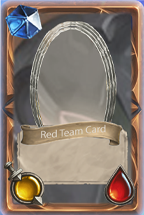
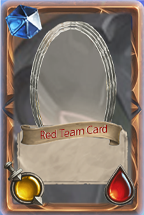
Final css update for demo

Changed region(s): [[0.2778, 0.586, 0.75, 0.6419]]

diff --git a/src/js/components/pages/add-card-type/addcardtype.css b/src/js/components/pages/add-card-type/addcardtype.css
@@ -7,7 +7,8 @@ html, body {
 }*/
 
 .add-card-type-header {
-	border-bottom: 3px solid #ccc;
+    border-bottom: 3px solid #ccc;
+    box-shadow: 0 10px 15px -9px rgba(170,170,170,1);
 	width: 100%;
 	height: 100px;
 }
@@ -62,7 +63,7 @@ html, body {
 	font-size: 50px;
 	color: #eee;
 	text-align: center;
-	text-shadow: 3px 0 black, 3px 0 black, 3px 0 black, 3px 0 black;
+	text-shadow: 3px 0 black;
 	line-height: 50px;
 	position: absolute;
 	width: 50px;
@@ -73,8 +74,8 @@ html, body {
 	margin: 0 auto;
 	position: relative;
 	max-width: 300px;
-	bottom: -40%;
-	text-shadow: 3px 0 black, 3px 0 black, 3px 0 black, 3px 0 black;
+	bottom: -38%;
+	text-shadow: 3px 0 black;
 }
 
 .card-name h2 {
@@ -92,7 +93,7 @@ html, body {
 	text-align: center;
 	vertical-align: middle;
 	top: 15%;
-	text-shadow: 3px 0 black, 3px 0 black, 3px 0 black, 3px 0 black;
+	text-shadow: 3px 0 black;
 }
 
 .card-image i {

diff --git a/src/js/components/pages/open-packs/show-cards-modal/ShowCardsModal.css b/src/js/components/pages/open-packs/show-cards-modal/ShowCardsModal.css
@@ -23,12 +23,16 @@
     font-size: 17px;
     margin: 0;
     position: relative;
-    text-shadow: 2px 0 black, 2px 0 black, 2px 0 black, 2px 0 black;
+    text-shadow: 2px 0 black;
     color: #fff !important;
 }
 
 .cards-modal .card-name{
     top: 125px;
+    left: 3px;
+    font-size: 15px;
+    color: #333333 !important;
+    text-shadow: 1px 0 white;
     text-align: center;
 }
 
@@ -52,8 +56,10 @@
     font-weight: bold;
 }
 
-.cards-modal .card-image{
+.cards-modal .card-img {
+    top: 3px;
+    left: 50px;
     text-align: center;
-    font-size: 16px;
-    font-weight: bold;
+    color: darkorange;
+    text-shadow: 1px 0 black;
 }

diff --git a/src/js/components/pages/open-packs/card-component/Card.js b/src/js/components/pages/open-packs/card-component/Card.js
@@ -11,9 +11,11 @@ class Card{
                             <p class="card-name">${this.cardData.Name}</p>
                             <p class="card-damage">${this.cardData.Damage}</p>
                             <p class="card-health" >${this.cardData.Health}</p>
-                            <p class="card-image">${this.cardData.ImageIdentifier}</p>`;
+                            <div class="card-img"><i class="fa"></i></div>`;
 
         this.container.appendChild(div);
         this.domElement = div;
+
+        this.domElement.querySelector(".fa").className += ` ${this.cardData.ImageIdentifier} fa-2x`;
     }
 }

diff --git a/src/js/components/pages/add-card-type/AddCardType.js b/src/js/components/pages/add-card-type/AddCardType.js
@@ -38,7 +38,7 @@ class AddCardType {
 
 		this.domElement.querySelector(".save-btn").addEventListener("click", () => {
 			Array.from( this.domElement.querySelectorAll(".error")).forEach( (x) => {x.style.visibility = "hidden"}, false );
-			this.saveCard( (card) => { this.displayServerResponse(card) })
+			this.saveCard( (card) => { this.displayServerResponse(card)})
 		}, false);
 
 		this.domElement.querySelector(".cancel-btn").addEventListener("click", () => { 
